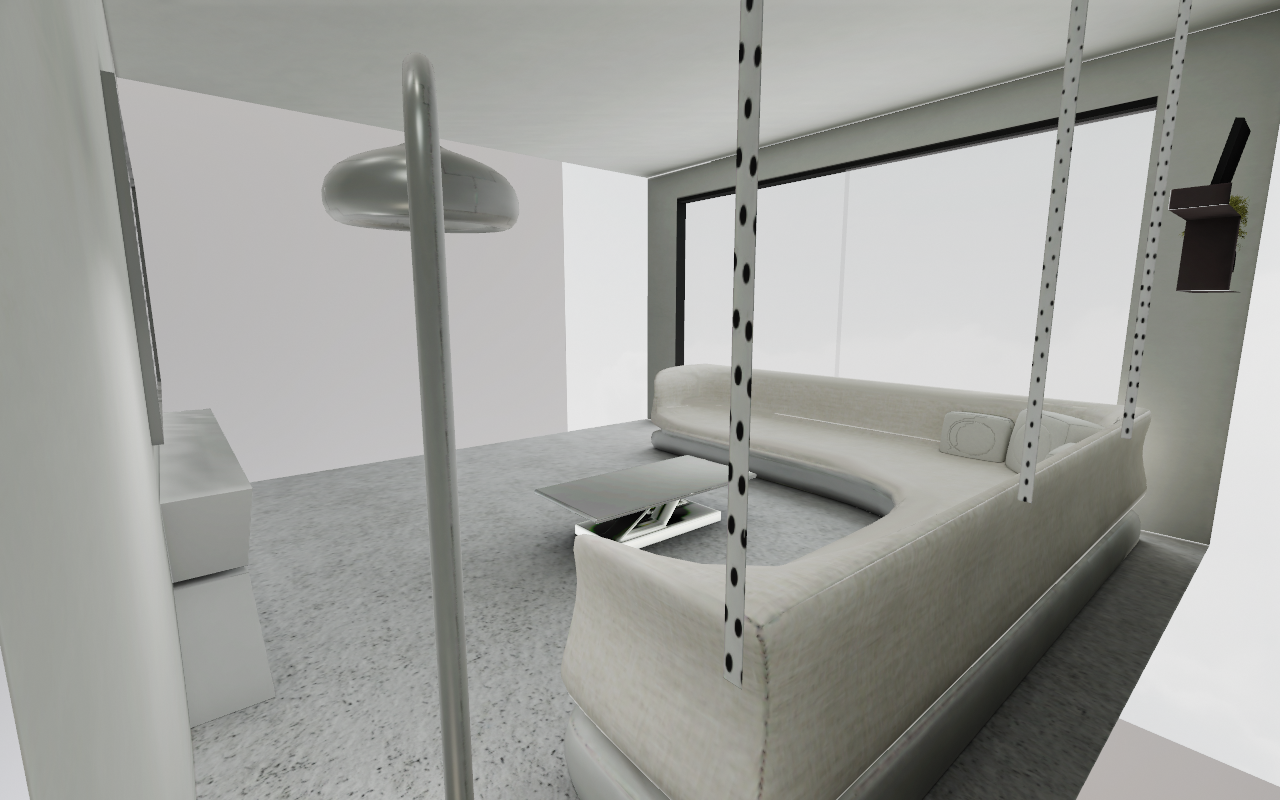
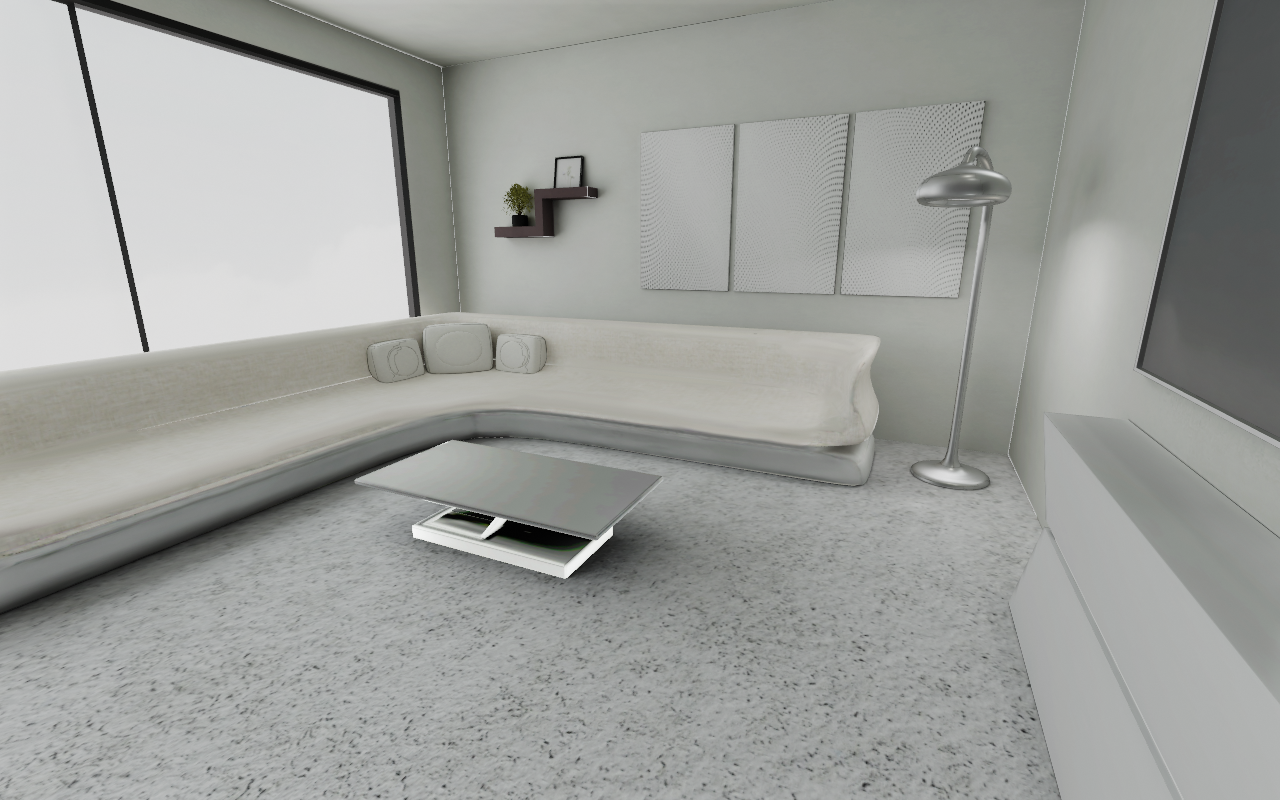
site: wide 21:9 hero, video-angle living room, photoreal montage, highlight MuJoFil, remove em-dashes, de-emphasize zero-copy

diff --git a/index.html b/index.html
@@ -3,11 +3,11 @@
 <head>
 <meta charset="utf-8" />
 <meta name="viewport" content="width=device-width, initial-scale=1" />
-<title>MuJoFil — photoreal GPU simulation for vision-based RL</title>
-<meta name="description" content="MuJoFil pairs MuJoCo Warp's GPU physics with a parallel, high-fidelity rasterization renderer forked from Google Filament — photoreal training observations delivered zero-copy to PyTorch. Drop in any Sketchfab / Poly Haven environment." />
-<meta property="og:title" content="MuJoFil — photoreal GPU simulation for vision-based RL" />
-<meta property="og:description" content="MuJoCo Warp physics + a parallel Filament-fork renderer, zero-copy to PyTorch. Drop in any photoreal environment for RL." />
-<meta property="og:image" content="img/hero_sponza.png" />
+<title>MuJoFil · photoreal GPU simulation for vision-based RL</title>
+<meta name="description" content="MuJoFil pairs MuJoCo Warp's GPU physics with a parallel, high-fidelity rasterization renderer forked from Google Filament, giving photoreal training observations for reinforcement learning. Drop in any Sketchfab or Poly Haven environment." />
+<meta property="og:title" content="MuJoFil · photoreal GPU simulation for vision-based RL" />
+<meta property="og:description" content="MuJoCo Warp physics plus a parallel Filament-fork renderer. Drop in any photoreal environment and train your robot's policy." />
+<meta property="og:image" content="img/hero_wide.png" />
 <meta property="og:type" content="website" />
 <link rel="preconnect" href="https://fonts.googleapis.com" />
 <link rel="preconnect" href="https://fonts.gstatic.com" crossorigin />
@@ -46,16 +46,17 @@ body::before{content:"";position:fixed;inset:0;background:radial-gradient(1200px
 .nav-cta:hover{background:var(--primary);color:var(--bg) !important}
 
 /* hero */
-.hero{position:relative;min-height:88vh;display:flex;flex-direction:column;align-items:center;justify-content:center;text-align:center;padding:90px 24px 60px;max-width:var(--maxw);margin:0 auto;overflow:hidden}
+.hero{position:relative;min-height:92vh;display:flex;flex-direction:column;align-items:center;justify-content:center;text-align:center;padding:90px 24px 60px;max-width:var(--maxw);margin:0 auto;overflow:hidden}
 .hero-img{position:absolute;inset:0;z-index:0}
-.hero-img img{width:100%;height:100%;object-fit:cover;opacity:.34}
-.hero-img::after{content:"";position:absolute;inset:0;background:linear-gradient(180deg,rgba(14,13,11,.55),rgba(14,13,11,.82) 65%,var(--bg))}
-.hero-copy{position:relative;z-index:2;max-width:760px}
+.hero-img img{width:100%;height:100%;object-fit:cover;opacity:.42}
+.hero-img::after{content:"";position:absolute;inset:0;background:linear-gradient(180deg,rgba(14,13,11,.45),rgba(14,13,11,.78) 65%,var(--bg))}
+.hero-copy{position:relative;z-index:2;max-width:780px}
 .eyebrow{display:inline-flex;align-items:center;gap:10px;font-family:var(--font-mono);font-size:12px;letter-spacing:.16em;text-transform:uppercase;color:var(--accent);padding:6px 14px;border:1px solid var(--line);border-radius:999px;background:rgba(255,255,255,.02)}
 .eyebrow .dot{width:6px;height:6px;border-radius:50%;background:var(--primary);box-shadow:0 0 12px var(--primary)}
 .hero h1{font-family:var(--font-serif);font-weight:600;font-size:clamp(42px,7vw,82px);line-height:1.02;margin:24px 0 16px;letter-spacing:-.01em}
 .hero h1 .o{color:var(--primary)}
-.hero .lede{font-size:19px;color:var(--text-dim);max-width:640px;margin:0 auto 30px}
+.hero .lede{font-size:19px;color:var(--text-dim);max-width:660px;margin:0 auto 30px}
+.hero .lede b{color:var(--text);font-weight:600}
 .btn-row{display:flex;flex-wrap:wrap;gap:14px;justify-content:center}
 .btn{display:inline-flex;align-items:center;gap:10px;padding:12px 22px;border-radius:999px;font-size:15px;font-weight:500;border:1px solid transparent;cursor:pointer;transition:transform .15s var(--ease),background .2s,color .2s,border-color .2s}
 .btn-primary{background:var(--primary);color:#1a0f06}
@@ -115,7 +116,6 @@ th{color:var(--text);font-weight:600}
 tr:last-child td{border-bottom:0}
 td.win{color:var(--primary);font-weight:600}
 td.dim{color:var(--text-mute)}
-caption{caption-side:bottom;color:var(--text-mute);font-size:12.5px;padding:10px 4px;text-align:left;font-style:italic}
 .note{font-size:13.5px;color:var(--text-mute);margin-top:14px;line-height:1.6}
 
 /* code */
@@ -172,17 +172,17 @@ pre code{color:var(--text)}
       <a href="#video">Video</a>
       <a href="#benchmarks">Benchmarks</a>
       <a href="#start">Get started</a>
-      <a class="nav-cta" href="https://github.com/tau-intelligence/mujofil-warp" target="_blank" rel="noopener">GitHub ↗</a>
+      <a class="nav-cta" href="https://github.com/tau-intelligence/mujofil-warp" target="_blank" rel="noopener">GitHub &#8599;</a>
     </div>
   </div>
 </nav>
 
 <header class="hero" id="top">
-  <div class="hero-img"><img src="img/hero_sponza.png" alt="Photoreal Sponza rendered by MuJoFil" /></div>
+  <div class="hero-img"><img src="img/hero_wide.png" alt="Photoreal Sponza atrium rendered by MuJoFil" /></div>
   <div class="hero-copy">
     <span class="eyebrow"><span class="dot"></span> by Tau Intelligence · open source</span>
     <h1>Photoreal worlds for<br/><span class="o">vision-based</span> robot learning.</h1>
-    <p class="lede">MuJoFil plugs <strong>MuJoCo Warp</strong>'s GPU physics into a parallel, high-fidelity rasterization renderer — a fork of Google Filament — and streams photoreal observations <strong>zero-copy to PyTorch</strong>. Drop in any environment and train.</p>
+    <p class="lede"><b>MuJoFil</b> turns GPU-resident MuJoCo Warp simulations into photoreal training observations, using a parallel rasterization renderer forked from Google Filament. Drop in any environment and train your robot's policy inside it.</p>
     <div class="btn-row">
       <a class="btn btn-primary" href="#start">pip install mujofil-warp</a>
       <a class="btn btn-ghost" href="https://github.com/tau-intelligence/mujofil-warp" target="_blank" rel="noopener">View on GitHub</a>
@@ -190,7 +190,7 @@ pre code{color:var(--text)}
     <div class="hero-meta">
       <span>MuJoCo Warp physics</span>
       <span>Filament-fork PBR</span>
-      <span>zero-copy torch.cuda</span>
+      <span>parallel batch render</span>
       <span>glTF · GLB · USD</span>
     </div>
   </div>
@@ -202,15 +202,15 @@ pre code{color:var(--text)}
     <div class="section-title reveal">
       <span class="kicker">What it is</span>
       <h2>A simulation pipeline, not a new physics engine.</h2>
-      <p>The honest version, up front — because positioning matters more than hype.</p>
+      <p>The honest version, up front, because positioning matters more than hype.</p>
     </div>
     <div class="prose reveal">
-      <p class="lead">MuJoFil is two pieces working as one: <strong>MuJoCo Warp</strong> for high-throughput GPU physics, and an <strong>efficient, GPU-parallel rasterization renderer</strong> (forked from Google Filament) for photoreal frames. We wire them together so you get the best of both — fast parallel dynamics <em>and</em> fast, parallel, physically-based visuals — delivered to PyTorch with no GPU→CPU→GPU bounce for the pixels.</p>
-      <p>We don't reimplement dynamics. The simulation is MuJoCo Warp (DeepMind + NVIDIA's GPU MuJoCo). <strong>Our work is the renderer and the zero-copy GPU→PyTorch pipeline</strong> that turns GPU-resident world states into training-ready observations — something neither MuJoCo nor MuJoCo Warp's built-in raycaster does (it's flat-shaded and can't load real environments).</p>
+      <p class="lead"><strong>MuJoFil</strong> is two pieces working as one: <strong>MuJoCo Warp</strong> for high-throughput GPU physics, and an efficient, GPU-parallel rasterization renderer (forked from Google Filament) for photoreal frames. We wire them together so you get the best of both: fast parallel dynamics and fast, parallel, physically-based visuals, ready for your learning loop.</p>
+      <p>We don't reimplement dynamics. The simulation is MuJoCo Warp (DeepMind and NVIDIA's GPU MuJoCo). <strong>Our work is the renderer and the pipeline around it</strong> that turns GPU-resident world states into training-ready observations, something neither MuJoCo nor MuJoCo Warp's built-in raycaster does (it is flat-shaded and cannot load real environments).</p>
     </div>
     <div class="callout reveal" style="max-width:760px">
-      <div class="ic">τ</div>
-      <p><strong>The middle of the spectrum.</strong> Not the highest fidelity (we're rasterization — PBR, IBL, SSAO, reflections — <em>not</em> path-traced like Omniverse), and not the fastest (a flat raycaster trades all shading for throughput). MuJoFil targets the practical middle: photoreal-enough RGB that runs on a <strong>mid-range GPU</strong>.</p>
+      <div class="ic">&#964;</div>
+      <p><strong>The middle of the spectrum.</strong> Not the highest fidelity (we are rasterization: PBR, IBL, SSAO, reflections, not path-traced like Omniverse), and not the fastest (a flat raycaster trades all shading for throughput). MuJoFil targets the practical middle: photoreal-enough RGB that runs on a <strong>mid-range GPU</strong>.</p>
     </div>
   </div>
 </section>
@@ -220,7 +220,7 @@ pre code{color:var(--text)}
   <div class="container">
     <div class="section-title reveal">
       <span class="kicker">How it works</span>
-      <h2>From GPU physics to a torch.cuda observation.</h2>
+      <h2>From GPU physics to a training observation.</h2>
       <p>One step of the loop, end to end.</p>
     </div>
     <div class="pipe reveal">
@@ -229,35 +229,35 @@ pre code{color:var(--text)}
         <h4>MuJoCo Warp steps N worlds</h4>
         <p>Thousands of parallel MuJoCo worlds advance entirely on the GPU as CUDA kernels.</p>
       </div>
-      <div class="pipe-arrow">→</div>
+      <div class="pipe-arrow">&#8594;</div>
       <div class="pipe-step">
         <div class="t">02 · Render</div>
         <h4>Filament fork, one instanced pass</h4>
-        <p>A forked Filament GL backend draws all worlds in a single <code>gl_Layer</code> pass — full PBR, IBL, shadows, reflections.</p>
+        <p>A forked Filament GL backend draws every world in a single <code>gl_Layer</code> pass, with full PBR, IBL, shadows and reflections.</p>
       </div>
-      <div class="pipe-arrow">→</div>
+      <div class="pipe-arrow">&#8594;</div>
       <div class="pipe-step">
         <div class="t">03 · Deliver</div>
-        <h4>Zero-copy to PyTorch</h4>
-        <p>Filament renders into GPU memory CUDA imports directly — frames arrive as <code>torch.cuda</code> tensors, no CPU round-trip.</p>
+        <h4>Straight into PyTorch</h4>
+        <p>Frames land in GPU memory as <code>torch.cuda</code> tensors, ready for a CNN, ViT or VLA policy.</p>
       </div>
     </div>
 
     <div class="cap-grid reveal" style="margin-top:46px">
       <div class="cap-card">
-        <div class="icon">⚡</div>
+        <div class="icon">&#9889;</div>
         <h3>Parallel rasterization</h3>
-        <p>A forked Filament GL backend renders many worlds in one instanced draw with per-world GPU transforms — parallel by construction, not a per-world Python loop.</p>
+        <p>A forked Filament GL backend renders many worlds in one instanced draw with per-world GPU transforms, parallel by construction rather than a per-world Python loop.</p>
       </div>
       <div class="cap-card">
-        <div class="icon">◳</div>
-        <h3>Zero-copy observations</h3>
-        <p>Pixels are exported to CUDA via GL/Vulkan external memory and handed to PyTorch through DLPack — no GPU→CPU→GPU transfer that scales with resolution.</p>
+        <div class="icon">&#9728;</div>
+        <h3>Real materials and light</h3>
+        <p>Metalness and roughness PBR, image-based lighting, soft shadows, SSAO, bloom, screen-space reflections and filmic tone mapping: the appearance cues flat renderers lack.</p>
       </div>
       <div class="cap-card">
-        <div class="icon">✦</div>
-        <h3>Real materials &amp; light</h3>
-        <p>Metalness/roughness PBR, image-based lighting, soft shadows, SSAO, bloom, screen-space reflections and filmic tone mapping — the appearance cues flat renderers lack.</p>
+        <div class="icon">&#9670;</div>
+        <h3>Tuned for the training loop</h3>
+        <p>Quality presets trade fidelity for throughput with one keyword, the renderer keeps pixels on the GPU, and observations arrive as PyTorch tensors with no detour.</p>
       </div>
     </div>
   </div>
@@ -271,13 +271,13 @@ pre code{color:var(--text)}
         <span class="kicker">Drop in any world</span>
         <h2 style="font-family:var(--font-serif);font-weight:600;font-size:clamp(28px,3.8vw,44px);margin:10px 0 16px;letter-spacing:-.005em">Train inside real environments.</h2>
         <div class="prose">
-          <p>MuJoCo and its raycaster can't load real 3D scenes. MuJoFil can. Pull a model from <strong>Sketchfab</strong>, <strong>Poly Haven</strong> or any glTF / GLB / OBJ / USD source and train your robot's policy inside a photoreal world — with an optional tool that auto-generates the collision mesh so the robot actually interacts with the geometry.</p>
-          <p>The renders on this page are all produced by MuJoFil, fresh — Intel Sponza, an industrial warehouse, a modern living room, a café, an art gallery.</p>
+          <p>MuJoCo and its raycaster cannot load real 3D scenes. MuJoFil can. Pull a model from <strong>Sketchfab</strong>, <strong>Poly Haven</strong> or any glTF, GLB, OBJ or USD source and train your robot's policy inside a photoreal world, with an optional tool that auto-generates the collision mesh so the robot actually interacts with the geometry.</p>
+          <p>The renders on this page are all produced by MuJoFil, fresh: Intel Sponza, an industrial warehouse, a modern living room, a caf&#233; and an art gallery.</p>
         </div>
       </div>
       <div class="tile reveal">
         <img src="img/warehouse.png" alt="Industrial warehouse rendered by MuJoFil" />
-        <div class="cap"><b>Industrial warehouse</b> · PBR floor + ceiling fixtures + reflections</div>
+        <div class="cap"><b>Industrial warehouse</b> · PBR floor, ceiling fixtures, reflections</div>
       </div>
     </div>
   </div>
@@ -289,7 +289,7 @@ pre code{color:var(--text)}
     <div class="section-title reveal">
       <span class="kicker">Gallery</span>
       <h2>Rendered fresh by MuJoFil.</h2>
-      <p>Every frame below is the actual renderer output — full PBR, image-based lighting, real reflections.</p>
+      <p>Every frame below is the actual renderer output: full PBR, image-based lighting, real reflections.</p>
     </div>
     <div class="gallery reveal">
       <div class="tile">
@@ -298,8 +298,8 @@ pre code{color:var(--text)}
       </div>
       <div class="col">
         <div class="tile">
-          <img src="img/cafe.png" alt="Café interior" />
-          <div class="cap"><b>Café</b> · Sketchfab · CC-BY</div>
+          <img src="img/cafe.png" alt="Caf&#233; interior" />
+          <div class="cap"><b>Caf&#233;</b> · Sketchfab · CC-BY</div>
         </div>
         <div class="tile">
           <img src="img/living.png" alt="Modern living room" />
@@ -326,7 +326,7 @@ pre code{color:var(--text)}
     <div class="section-title reveal">
       <span class="kicker">Watch</span>
       <h2>MuJoFil in motion.</h2>
-      <p>The cinematic walkthrough — environments, the renderer, and the pipeline.</p>
+      <p>The cinematic walkthrough: environments, the renderer and the pipeline.</p>
     </div>
     <div class="video-wrap reveal">
       <iframe src="https://www.youtube.com/embed/7jVbFwwt-Bg" title="MuJoFil" allow="accelerometer; autoplay; clipboard-write; encrypted-media; gyroscope; picture-in-picture; web-share" allowfullscreen loading="lazy"></iframe>
@@ -340,45 +340,45 @@ pre code{color:var(--text)}
     <div class="section-title reveal">
       <span class="kicker">Benchmarks</span>
       <h2>Honest numbers, freshly measured.</h2>
-      <p>RTX 4060 Laptop (8&nbsp;GiB), one primitives scene, full loop = GPU physics + one batched render of N&nbsp;worlds → <code>torch.cuda</code>. Subprocess-isolated, best-of-2.</p>
+      <p>RTX 4060 Laptop (8&nbsp;GiB), one primitives scene, full loop = GPU physics plus one batched render of N&nbsp;worlds into PyTorch. Subprocess-isolated, best-of-2.</p>
     </div>
 
     <div class="reveal" style="margin-bottom:28px">
-      <h3 style="font-family:var(--font-serif);font-weight:600;font-size:21px;margin:0 0 12px">Throughput — env-steps / second (128&nbsp;px)</h3>
+      <h3 style="font-family:var(--font-serif);font-weight:600;font-size:21px;margin:0 0 12px">Throughput, env-steps per second (128&nbsp;px)</h3>
       <div class="tbl-scroll">
         <table>
           <thead><tr><th>Mode</th><th>N=16</th><th>N=64</th><th>N=256</th><th>N=1024</th></tr></thead>
           <tbody>
             <tr><td>Physics only (no vision)</td><td class="dim">3,865</td><td class="dim">19,119</td><td class="dim">69,523</td><td class="dim">307,679</td></tr>
-            <tr><td>MuJoCo Warp — depth raycaster</td><td>616</td><td>2,366</td><td>8,802</td><td>26,481</td></tr>
-            <tr><td>MuJoCo Warp — flat RGB raycaster</td><td>612</td><td>2,357</td><td>8,451</td><td>24,372</td></tr>
-            <tr><td>MuJoFil — photoreal RGB (default)</td><td class="win">2,199</td><td class="win">4,756</td><td>7,602</td><td>8,016</td></tr>
-            <tr><td>MuJoFil — photoreal RGB (layered)</td><td>1,692</td><td class="win">6,257</td><td class="win">10,925</td><td>13,933</td></tr>
+            <tr><td>MuJoCo Warp, depth raycaster</td><td>616</td><td>2,366</td><td>8,802</td><td>26,481</td></tr>
+            <tr><td>MuJoCo Warp, flat RGB raycaster</td><td>612</td><td>2,357</td><td>8,451</td><td>24,372</td></tr>
+            <tr><td>MuJoFil, photoreal RGB (default)</td><td class="win">2,199</td><td class="win">4,756</td><td>7,602</td><td>8,016</td></tr>
+            <tr><td>MuJoFil, photoreal RGB (layered)</td><td>1,692</td><td class="win">6,257</td><td class="win">10,925</td><td>13,933</td></tr>
           </tbody>
         </table>
       </div>
-      <p class="note"><strong style="color:var(--text)">Read it honestly.</strong> At the batch sizes most people train at (16–256), MuJoFil's <em>photoreal</em> RGB is as fast as — or faster than — MuJoCo Warp's own <em>depth</em> raycaster, while delivering full PBR. MuJoCo Warp's raycaster is a fully parallel megakernel, so it scales past us at very large N (N=1024): it wins raw throughput by trading away all visual fidelity. We're a rasterizer; we plateau. Different categories, stated plainly.</p>
+      <p class="note"><strong style="color:var(--text)">Read it honestly.</strong> At the batch sizes most people train at (16 to 256), MuJoFil's <em>photoreal</em> RGB is as fast as, or faster than, MuJoCo Warp's own <em>depth</em> raycaster, while delivering full PBR. MuJoCo Warp's raycaster is a fully parallel megakernel, so it scales past us at very large N (N=1024): it wins raw throughput by trading away all visual fidelity. We are a rasterizer; we plateau. Different categories, stated plainly.</p>
     </div>
 
     <div class="reveal">
-      <h3 style="font-family:var(--font-serif);font-weight:600;font-size:21px;margin:0 0 12px">Latency — milliseconds per batched frame (128&nbsp;px)</h3>
+      <h3 style="font-family:var(--font-serif);font-weight:600;font-size:21px;margin:0 0 12px">Latency, milliseconds per batched frame (128&nbsp;px)</h3>
       <div class="tbl-scroll">
         <table>
           <thead><tr><th>Mode</th><th>N=16</th><th>N=64</th><th>N=256</th><th>N=1024</th></tr></thead>
           <tbody>
             <tr><td>Physics only</td><td class="dim">4.1</td><td class="dim">3.4</td><td class="dim">3.7</td><td class="dim">3.3</td></tr>
-            <tr><td>MuJoCo Warp — depth</td><td>26.0</td><td>27.1</td><td>29.1</td><td>38.7</td></tr>
-            <tr><td>MuJoFil — RGB (default)</td><td>7.3</td><td>13.5</td><td>33.7</td><td>127.7</td></tr>
-            <tr><td>MuJoFil — RGB (layered)</td><td>9.5</td><td>10.2</td><td>23.4</td><td>73.5</td></tr>
+            <tr><td>MuJoCo Warp, depth</td><td>26.0</td><td>27.1</td><td>29.1</td><td>38.7</td></tr>
+            <tr><td>MuJoFil, RGB (default)</td><td>7.3</td><td>13.5</td><td>33.7</td><td>127.7</td></tr>
+            <tr><td>MuJoFil, RGB (layered)</td><td>9.5</td><td>10.2</td><td>23.4</td><td>73.5</td></tr>
           </tbody>
         </table>
       </div>
-      <p class="note">We publish latency next to throughput on purpose. Throughput rising with N just means fixed per-batch overhead amortizes — per-frame time still climbs. The layered path's vectorized tone-map keeps that climb in check (it's ~3× faster at N=1024 than the per-world version it replaced).</p>
+      <p class="note">We publish latency next to throughput on purpose. Throughput rising with N just means fixed per-batch overhead amortizes; per-frame time still climbs. The layered path's vectorized tone-map keeps that climb in check (about 3x faster at N=1024 than the per-world version it replaced).</p>
     </div>
 
     <div class="callout reveal" style="margin-top:30px;max-width:none;border-left-color:var(--accent-2);background:linear-gradient(180deg,rgba(111,183,201,.07),transparent 80%),var(--surface)">
       <div class="ic" style="background:var(--accent-2)">i</div>
-      <p><strong>On "300,000 steps/s".</strong> That's <em>physics with nothing attached</em> — a state-based RL ceiling. The moment you render pixels and run a policy network, the renderer and the encoder become the bottleneck, and practical vision-RL lives at ~1k–15k env-steps/s. MuJoFil's job is to make the <em>render</em> fast enough to stay off the critical path — not to pretend vision training runs at physics speed.</p>
+      <p><strong>On "300,000 steps per second".</strong> That is <em>physics with nothing attached</em>, a state-based RL ceiling. The moment you render pixels and run a policy network, the renderer and the encoder become the bottleneck, and practical vision-RL lives around 1k to 15k env-steps per second. MuJoFil's job is to make the <em>render</em> fast enough to stay off the critical path, not to pretend vision training runs at physics speed.</p>
     </div>
   </div>
 </section>
@@ -389,15 +389,15 @@ pre code{color:var(--text)}
     <div class="section-title reveal">
       <span class="kicker">Get started</span>
       <h2>One install, one import.</h2>
-      <p>Your code imports only <code>mujofil_warp</code> — MuJoCo Warp and the renderer are driven for you.</p>
+      <p>Your code imports only <code>mujofil_warp</code>. MuJoCo Warp and the renderer are driven for you.</p>
     </div>
     <div class="two" style="align-items:start">
       <div class="reveal">
-        <pre><code><span class="tok-c"># one self-contained wheel — NVIDIA GPU + driver is all you need</span>
+        <pre><code><span class="tok-c"># one self-contained wheel, an NVIDIA GPU is all you need</span>
 $ pip install mujofil-warp</code></pre>
         <pre style="margin-top:14px"><code><span class="tok-k">import</span> mujofil_warp
 
-<span class="tok-c"># GPU physics (MuJoCo Warp) + photoreal rendering, one object</span>
+<span class="tok-c"># GPU physics (MuJoCo Warp) plus photoreal rendering, one object</span>
 scene = mujofil_warp.<span class="tok-f">ParallelScene</span>(
     <span class="tok-s">"scene.xml"</span>, num_worlds=<span class="tok-s">32</span>,
     width=<span class="tok-s">256</span>, height=<span class="tok-s">256</span>, preset=<span class="tok-s">"high"</span>)
@@ -409,19 +409,19 @@ scene = mujofil_warp.<span class="tok-f">ParallelScene</span>(
       <div class="reveal">
         <div class="prose" style="font-size:16px">
           <p class="lead" style="font-size:18px">What you get out of the box.</p>
-          <p><strong>Photoreal observations</strong> as zero-copy <code>torch.cuda</code> tensors, ready for a CNN / ViT / VLA policy. <strong>Quality presets</strong> (<code>high</code>, <code>fast</code>, <code>train</code>, …) trade fidelity for throughput with one keyword. <strong>Any environment</strong> via the optional <code>[usd]</code> tooling that converts a GLB/USD scene into a visual mesh plus a MuJoCo collision body.</p>
-          <p>The wheel is self-contained — Filament and the CUDA runtime are baked in. The only runtime requirement is an <strong>NVIDIA GPU + driver</strong>. Linux x86-64, Python 3.10–3.13.</p>
+          <p><strong>Photoreal observations</strong> as PyTorch tensors, ready for a CNN, ViT or VLA policy. <strong>Quality presets</strong> (<code>high</code>, <code>fast</code>, <code>train</code> and more) trade fidelity for throughput with one keyword. <strong>Any environment</strong> via the optional <code>[usd]</code> tooling that converts a GLB or USD scene into a visual mesh plus a MuJoCo collision body.</p>
+          <p>The wheel is self-contained: Filament and the CUDA runtime are baked in. The only runtime requirement is an <strong>NVIDIA GPU and driver</strong>. Linux x86-64, Python 3.10 to 3.13.</p>
         </div>
         <div class="btn-row" style="justify-content:flex-start;margin-top:18px">
-          <a class="btn btn-primary" href="https://github.com/tau-intelligence/mujofil-warp" target="_blank" rel="noopener">Docs &amp; source ↗</a>
-          <a class="btn btn-ghost" href="https://pypi.org/project/mujofil-warp/" target="_blank" rel="noopener">PyPI ↗</a>
+          <a class="btn btn-primary" href="https://github.com/tau-intelligence/mujofil-warp" target="_blank" rel="noopener">Docs and source &#8599;</a>
+          <a class="btn btn-ghost" href="https://pypi.org/project/mujofil-warp/" target="_blank" rel="noopener">PyPI &#8599;</a>
         </div>
       </div>
     </div>
 
     <div class="callout reveal" style="margin-top:34px;max-width:none">
-      <div class="ic">↺</div>
-      <p><strong>Running CPU MuJoCo instead?</strong> The sister package <a href="https://github.com/tau-intelligence/MuJoCo-Filament" target="_blank" rel="noopener">mujofil</a> is the same Filament renderer for standard CPU MuJoCo — photoreal frames as NumPy arrays, a drop-in swap for <code>mujoco.Renderer</code>.</p>
+      <div class="ic">&#8634;</div>
+      <p><strong>Running CPU MuJoCo instead?</strong> The sister package <a href="https://github.com/tau-intelligence/MuJoCo-Filament" target="_blank" rel="noopener">mujofil</a> is the same Filament renderer for standard CPU MuJoCo: photoreal frames as NumPy arrays, a drop-in swap for <code>mujoco.Renderer</code>.</p>
     </div>
   </div>
 </section>
@@ -439,15 +439,13 @@ scene = mujofil_warp.<span class="tok-f">ParallelScene</span>(
     </div>
   </div>
   <div class="footer-inner" style="margin-top:14px;color:var(--text-mute);font-size:12px">
-    <span>Apache-2.0 · Scene assets CC-BY from their respective authors (Khronos, Sketchfab, Poly Haven). Rendered with MuJoFil.</span>
+    <span>Apache-2.0. Scene assets CC-BY from their respective authors (Khronos, Sketchfab, Poly Haven). Rendered with MuJoFil.</span>
   </div>
 </footer>
 
 <script>
-// reveal on scroll
 const io=new IntersectionObserver((es)=>{es.forEach(e=>{if(e.isIntersecting){e.target.classList.add('in');io.unobserve(e.target);}})},{threshold:.12});
 document.querySelectorAll('.reveal').forEach(el=>io.observe(el));
-// active nav highlight
 const links=[...document.querySelectorAll('.nav-links a[href^="#"]')];
 const map=new Map(links.map(a=>[a.getAttribute('href').slice(1),a]));
 const so=new IntersectionObserver((es)=>{es.forEach(e=>{if(e.isIntersecting){links.forEach(a=>a.style.color='');const a=map.get(e.target.id);if(a)a.style.color='var(--primary)';}})},{rootMargin:'-40% 0px -55% 0px'});
